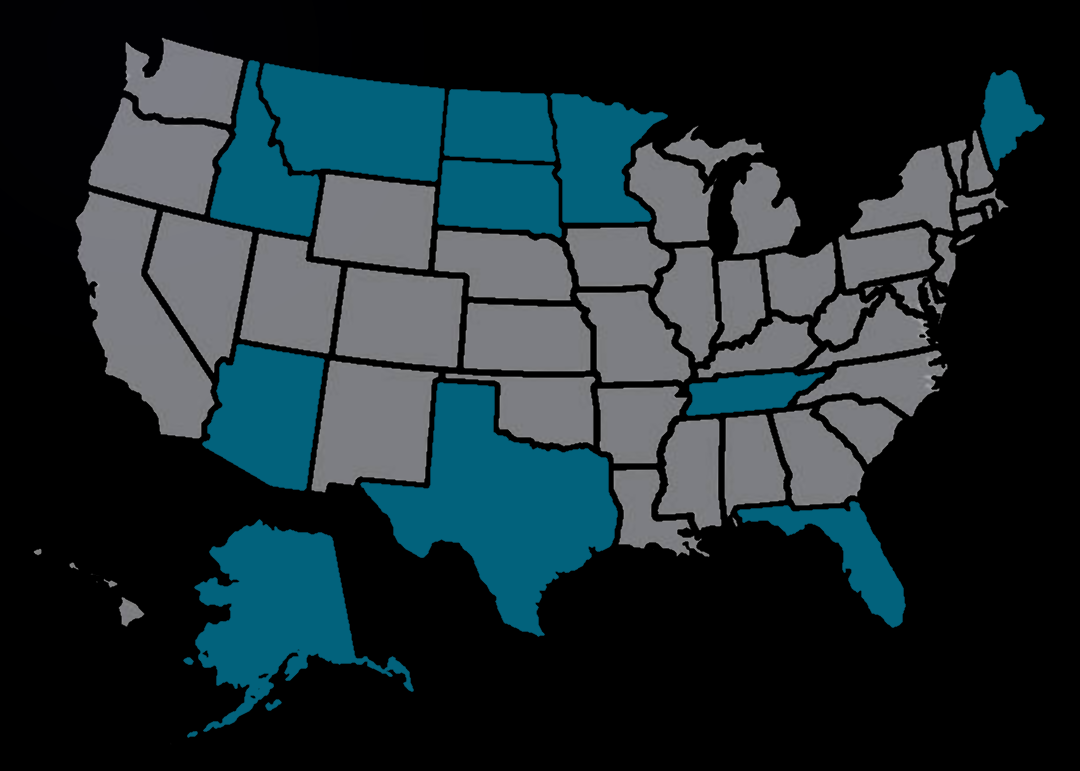
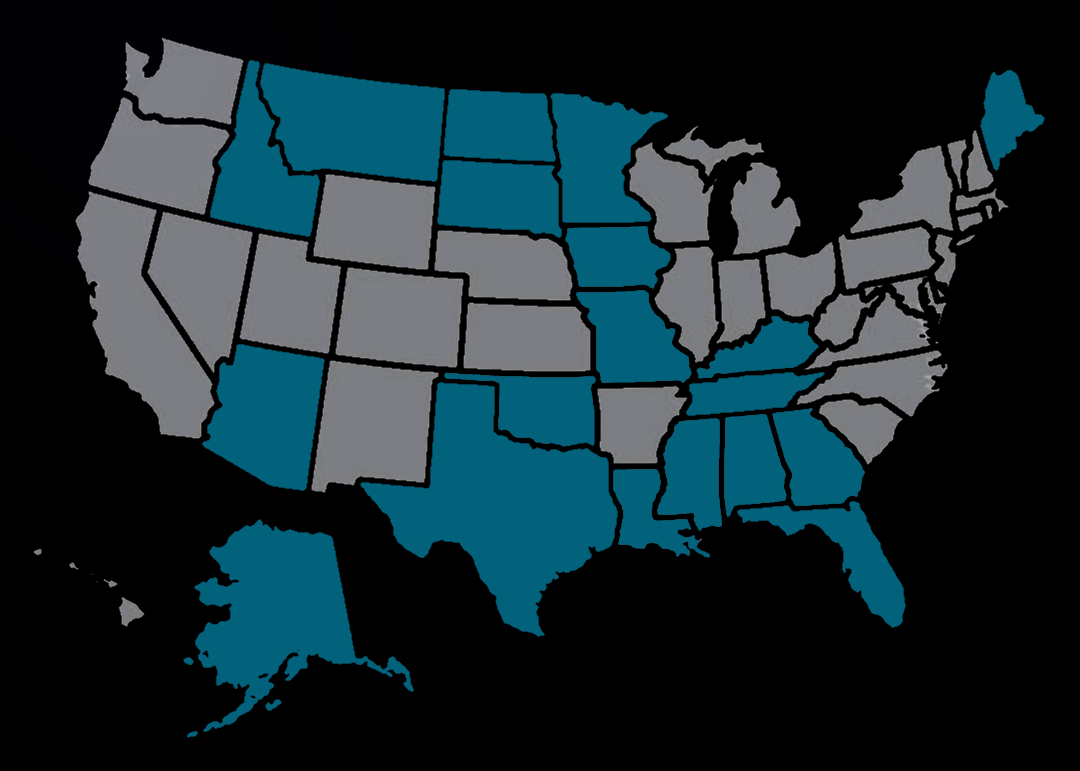
Add more banned states

Changed region(s): [[0.3972, 0.2802, 0.7639, 0.5914], [0.55, 0.5292, 0.825, 0.716]]

diff --git a/src/scenes/states.tsx b/src/scenes/states.tsx
@@ -6,9 +6,14 @@ import montana from '../images/montana.png';
 import southdakota from '../images/southdakota.png';
 import tennessee from '../images/tennessee.png';
 import florida from '../images/florida.png';
+import kentucky from '../images/kentucky.png';
+import alabama from '../images/alabama.png';
+import oklahoma from '../images/oklahoma.png';
+import mississippi from '../images/mississippi.png';
+import louisiana from '../images/louisiana.png';
 import { all, delay, easeOutCubic, makeRef, waitFor } from "@motion-canvas/core";
 
-let stateSrcs = [idaho, montana, southdakota, tennessee, florida]
+let stateSrcs = [idaho, montana, southdakota, oklahoma, kentucky, tennessee, louisiana, mississippi, alabama, florida]
 
 export default makeScene2D(function* (view) {
     let states : Img[] = [];
@@ -27,13 +32,15 @@ export default makeScene2D(function* (view) {
         }
     </>);
 
-    yield* waitFor(2);
+    yield* waitFor(.5);
 
     let t = .4;
     yield* all(...states.map((state, i) => 
-        delay(i*.3, all(
+        delay(i*.05, all(
             state.opacity(1, t),
             state.scale(1.00, t, easeOutCubic),
         ))
     ));
+
+    yield* waitFor(.2);
 })

diff --git a/src/project.ts b/src/project.ts
@@ -17,7 +17,7 @@ export default makeProject({
     //monotonicity,
     //claims,
     //allElections,
-    //states,
-    parties
+    states,
+    //parties
   ],
 });
